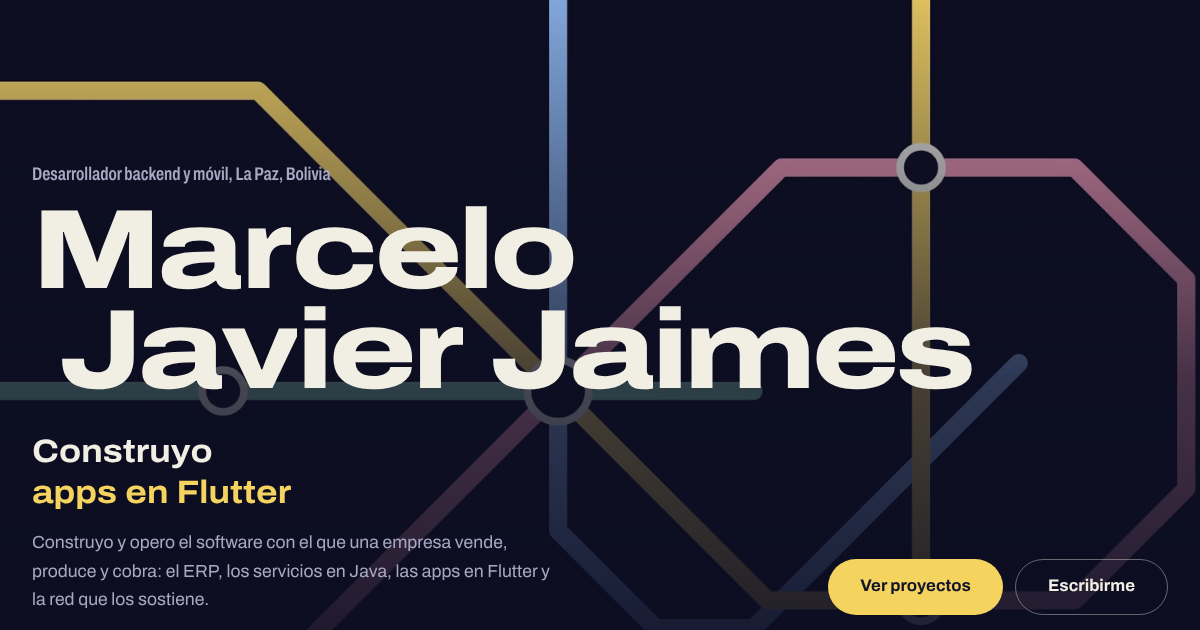
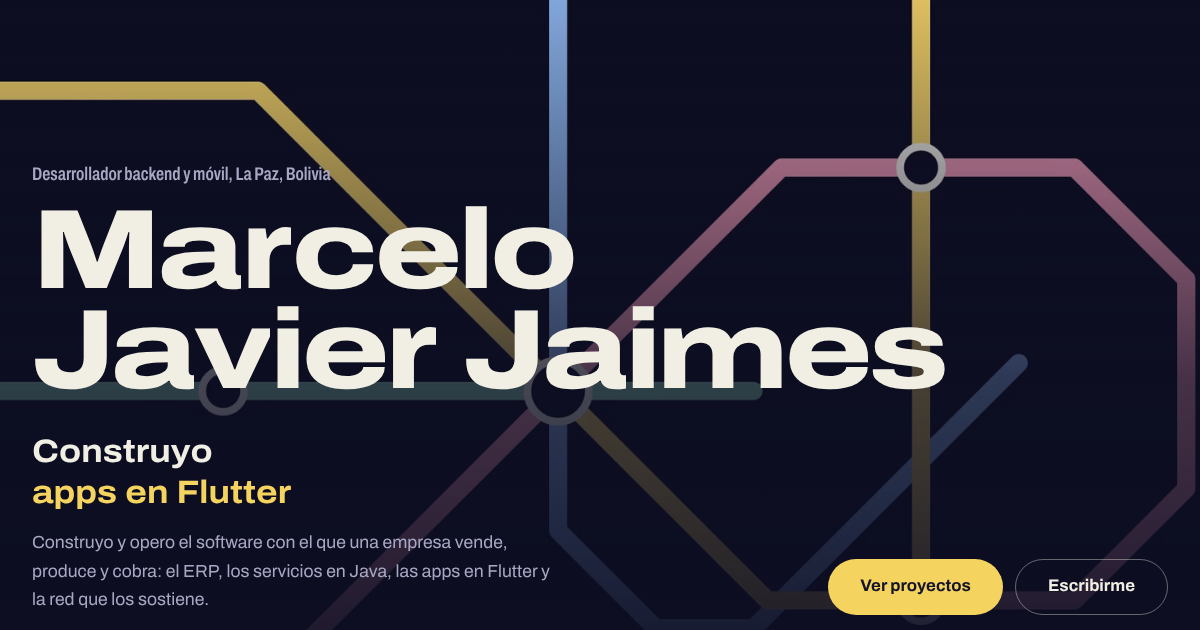
Corregir el espaciado del nombre en el hero y regenerar la vista previa
Claude-Session: https://claude.ai/code/session_01DJG5wzVqER2SgV5qw8qQp8

Changed region(s): [[0.0308, 0.4825, 0.8325, 0.6333]]

diff --git a/components/site/hero.tsx b/components/site/hero.tsx
@@ -100,8 +100,10 @@ export function Hero({ lang }: { lang: Locale }) {
           className="hero-name type-wide mt-3 text-[clamp(2.9rem,9.4vw,8.6rem)] font-extrabold leading-[0.88] tracking-[-0.035em]"
         >
           <span className="block">Marcelo</span>
-          <span className="block sm:mr-[0.24em] sm:inline">Javier</span>
-          <span className="block sm:inline">Jaimes</span>
+          <span className="block sm:flex sm:gap-[0.24em]">
+            <span className="block">Javier</span>
+            <span className="block">Jaimes</span>
+          </span>
         </h1>
 
         <div className="mt-8 grid items-end gap-8 lg:grid-cols-[minmax(0,1fr)_auto]">
